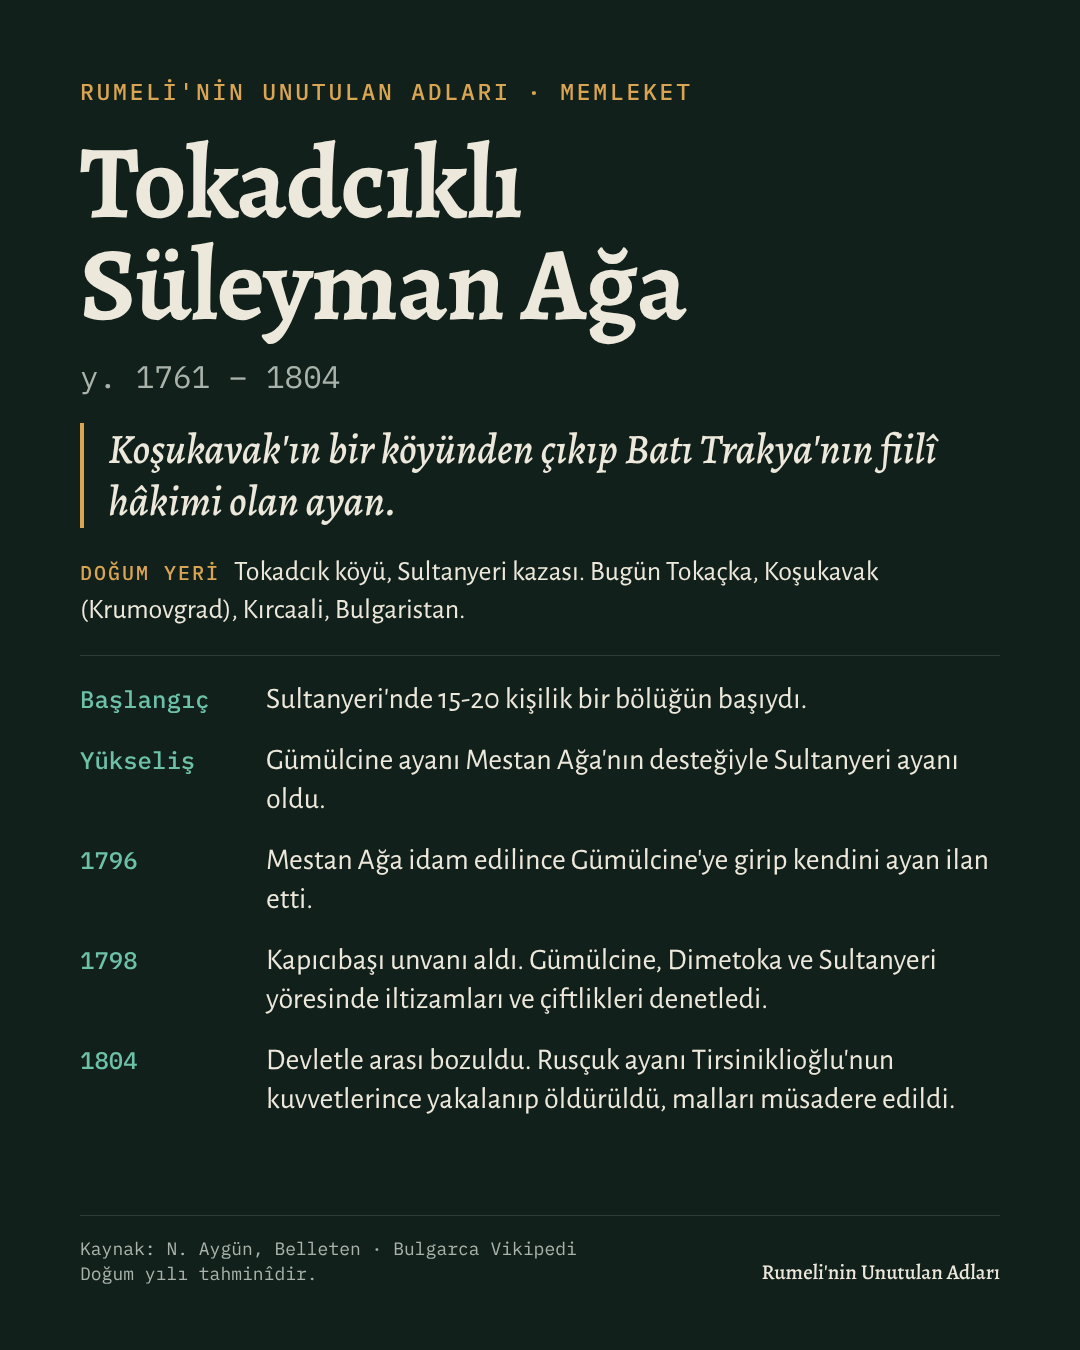
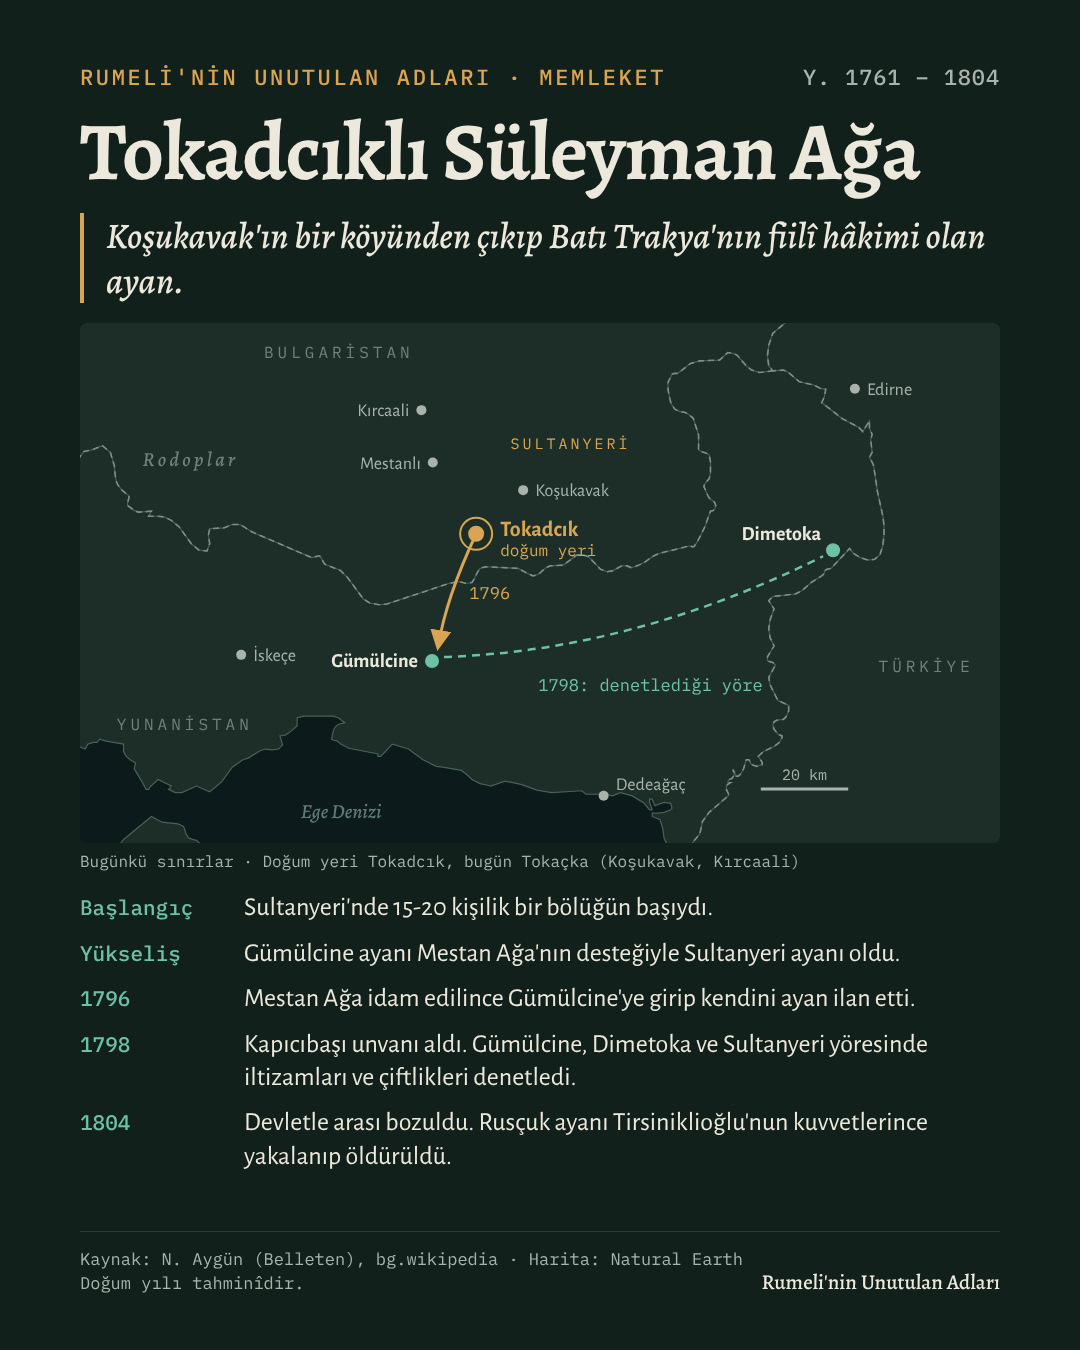
Gönderi görseli: gerçek sınır ve kıyı verisiyle harita (Natural Earth)
Claude-Session: https://claude.ai/code/session_01YHSXRFyQGCd5wQqmvhuNKc

diff --git a/raporlar/2026-11-04_osmanli_balkan_sahsiyetleri/gonderiler/tokadcikli_suleyman_aga_kaynak.html b/raporlar/2026-11-04_osmanli_balkan_sahsiyetleri/gonderiler/tokadcikli_suleyman_aga_kaynak.html
@@ -1,0 +1,86 @@
+<!doctype html>
+<html lang="tr"><head><meta charset="utf-8">
+<link rel="stylesheet" href="https://fonts.googleapis.com/css2?family=Alegreya:ital,wght@0,500;0,700;1,500&family=Alegreya+Sans:ital,wght@0,400;0,500;0,700;1,400&family=IBM+Plex+Mono:wght@400;500&display=swap">
+<script src="https://cdn.jsdelivr.net/npm/d3@7.8.5/dist/d3.min.js"></script>
+<script src="https://cdn.jsdelivr.net/npm/topojson-client@3.1.0/dist/topojson-client.min.js"></script>
+<style>
+:root{--bg:#12201b;--ink:#ede8dc;--muted:#a9b3ab;--ochre:#d9a552;--teal:#6dc1a7;--rule:#2c3d35;
+--d:"Alegreya",Georgia,serif;--b:"Alegreya Sans",system-ui,sans-serif;--m:"IBM Plex Mono",Menlo,monospace}
+*{box-sizing:border-box;margin:0}
+html,body{width:1080px;height:1350px}
+body{background:var(--bg);color:var(--ink);font-family:var(--b);padding:62px 80px 54px;display:flex;flex-direction:column;gap:20px}
+.top{display:flex;justify-content:space-between;font:500 22px var(--m);letter-spacing:.12em;text-transform:uppercase;color:var(--ochre)}
+.top span{color:var(--muted);letter-spacing:.04em}
+h1{font:700 82px/1 var(--d);letter-spacing:-.01em;white-space:nowrap}
+.lede{font:italic 500 36px/1.25 var(--d);border-left:4px solid var(--ochre);padding-left:22px}
+.map{position:relative}
+.map svg{display:block;border-radius:6px}
+.cap{font:400 16px var(--m);color:var(--muted);margin-top:8px;display:flex;justify-content:space-between}
+ol{list-style:none;padding:0;display:flex;flex-direction:column;gap:12px;flex:1}
+li{display:grid;grid-template-columns:150px 1fr;gap:14px;font-size:26px;line-height:1.28}
+li b{font:500 21px/1.6 var(--m);color:var(--teal)}
+footer{display:flex;justify-content:space-between;align-items:flex-end;border-top:1px solid var(--rule);padding-top:16px;font:400 17px/1.4 var(--m);color:var(--muted)}
+footer strong{color:var(--ink);font:500 21px var(--d);white-space:nowrap}
+</style></head><body>
+<div class="top">Rumeli'nin Unutulan Adları · Memleket <span>y. 1761 – 1804</span></div>
+<h1>Tokadcıklı Süleyman Ağa</h1>
+<p class="lede">Koşukavak'ın bir köyünden çıkıp Batı Trakya'nın fiilî hâkimi olan ayan.</p>
+<div class="map"><svg id="m" width="920" height="520"></svg>
+<div class="cap"><span>Bugünkü sınırlar · Doğum yeri Tokadcık, bugün Tokaçka (Koşukavak, Kırcaali)</span><span id="scale"></span></div></div>
+<ol>
+  <li><b>Başlangıç</b><span>Sultanyeri'nde 15-20 kişilik bir bölüğün başıydı.</span></li>
+  <li><b>Yükseliş</b><span>Gümülcine ayanı Mestan Ağa'nın desteğiyle Sultanyeri ayanı oldu.</span></li>
+  <li><b>1796</b><span>Mestan Ağa idam edilince Gümülcine'ye girip kendini ayan ilan etti.</span></li>
+  <li><b>1798</b><span>Kapıcıbaşı unvanı aldı. Gümülcine, Dimetoka ve Sultanyeri yöresinde iltizamları ve çiftlikleri denetledi.</span></li>
+  <li><b>1804</b><span>Devletle arası bozuldu. Rusçuk ayanı Tirsiniklioğlu'nun kuvvetlerince yakalanıp öldürüldü.</span></li>
+</ol>
+<footer><div>Kaynak: N. Aygün (Belleten), bg.wikipedia · Harita: Natural Earth<br>Doğum yılı tahminîdir.</div><strong>Rumeli'nin Unutulan Adları</strong></footer>
+<script>
+(async function(){
+const W=920,H=520, C={sea:'#0d1a1c',land:'#1c2e27',coast:'#4a6157',border:'#7d8f86',ink:'#ede8dc',muted:'#a9b3ab',ochre:'#d9a552',teal:'#6dc1a7'};
+const svg=d3.select('#m');
+const bbox={type:'MultiPoint',coordinates:[[24.45,40.80],[26.95,40.80],[24.45,41.76],[26.95,41.76]]};
+const proj=d3.geoMercator().fitExtent([[0,0],[W,H]],bbox), path=d3.geoPath(proj);
+const topo=await d3.json('https://cdn.jsdelivr.net/npm/world-atlas@2.0.2/countries-10m.json');
+const all=topojson.feature(topo,topo.objects.countries);const land={type:'FeatureCollection',features:all.features.filter(f=>['100','300','792','807'].includes(String(f.id)))};
+const borders=topojson.mesh(topo,topo.objects.countries,(a,b)=>a!==b);
+svg.append('defs').html(`<clipPath id="c"><rect width="${W}" height="${H}" rx="6"/></clipPath>
+<marker id="ar" viewBox="0 0 10 10" refX="8" refY="5" markerWidth="7" markerHeight="7" orient="auto"><path d="M0,0L10,5L0,10z" fill="${C.ochre}"/></marker>`);
+const g=svg.append('g').attr('clip-path','url(#c)');
+g.append('rect').attr('width',W).attr('height',H).attr('fill',C.sea);
+g.append('path').datum(land).attr('d',path).attr('fill',C.land).attr('stroke',C.coast).attr('stroke-width',1.2);
+g.append('path').datum(borders).attr('d',path).attr('fill','none').attr('stroke',C.border).attr('stroke-width',1.6).attr('stroke-dasharray','6 4');
+const P=(lon,lat)=>proj([lon,lat]);
+const T=(lon,lat,txt,o={})=>{const [x,y]=P(lon,lat);g.append('text').attr('x',x+(o.dx||0)).attr('y',y+(o.dy||0)).attr('text-anchor',o.a||'start')
+  .attr('fill',o.c||C.muted).attr('font-family',o.f||'Alegreya Sans').attr('font-size',o.s||18).attr('font-weight',o.w||400).attr('font-style',o.i?'italic':'normal')
+  .attr('letter-spacing',o.ls||0).text(txt);};
+// bölge yazıları
+T(24.95,41.74,'BULGARİSTAN',{s:16,ls:4,c:'#6f8279',f:'IBM Plex Mono'});
+T(24.55,40.98,'YUNANİSTAN',{s:16,ls:4,c:'#6f8279',f:'IBM Plex Mono'});
+T(26.62,41.10,'TÜRKİYE',{s:16,ls:4,c:'#6f8279',f:'IBM Plex Mono'});
+T(25.05,40.80,'Ege Denizi',{s:20,i:1,c:'#5f7a78',f:'Alegreya'});
+T(24.62,41.52,'R o d o p l a r',{s:20,i:1,c:'#6f8279',f:'Alegreya'});
+T(25.62,41.555,'SULTANYERİ',{s:15,ls:3,c:C.ochre,f:'IBM Plex Mono'});
+// yol: Tokadcık -> Gümülcine, Gümülcine -> Dimetoka
+const tk=P(25.5265,41.3822), gm=P(25.4066,41.1224), dm=P(26.4964,41.3486);
+g.append('path').attr('d',`M${tk[0]},${tk[1]} Q${tk[0]-30},${(tk[1]+gm[1])/2} ${gm[0]+6},${gm[1]-14}`).attr('fill','none').attr('stroke',C.ochre).attr('stroke-width',3).attr('marker-end','url(#ar)');
+g.append('path').attr('d',`M${gm[0]+12},${gm[1]-4} Q${(gm[0]+dm[0])/2},${gm[1]-10} ${dm[0]-10},${dm[1]+6}`).attr('fill','none').attr('stroke',C.teal).attr('stroke-width',2.5).attr('stroke-dasharray','8 6');
+// şehirler
+const cities=[['Kırcaali',25.3777,41.6338,{a:'end',dx:-12,dy:6}],['Mestanlı',25.4086,41.5272,{a:'end',dx:-12,dy:6}],['Koşukavak',25.6542,41.4711,{dx:12,dy:6}],
+ ['İskeçe',24.888,41.1349,{dx:12,dy:6}],['Dimetoka',26.4964,41.3486,{a:'end',dx:-12,dy:-10,c:C.ink,w:700,s:20}],['Edirne',26.5557,41.6771,{dx:12,dy:6}],
+ ['Dedeağaç',25.873,40.8457,{dx:12,dy:-6}],['Gümülcine',25.4066,41.1224,{a:'end',dx:-14,dy:6,c:C.ink,w:700,s:20}]];
+for(const [n,lon,lat,o] of cities){const [x,y]=P(lon,lat);g.append('circle').attr('cx',x).attr('cy',y).attr('r',o.w?7:5).attr('fill',o.w?C.teal:C.muted);T(lon,lat,n,o);}
+g.append('circle').attr('cx',tk[0]).attr('cy',tk[1]).attr('r',16).attr('fill','none').attr('stroke',C.ochre).attr('stroke-width',2);
+g.append('circle').attr('cx',tk[0]).attr('cy',tk[1]).attr('r',8).attr('fill',C.ochre);
+T(25.5265,41.3822,'Tokadcık',{dx:24,dy:2,c:C.ochre,w:700,s:22});
+T(25.5265,41.3822,'doğum yeri',{dx:24,dy:22,c:C.ochre,s:16,f:'IBM Plex Mono'});
+T(25.47,41.25,'1796',{dx:14,c:C.ochre,s:17,f:'IBM Plex Mono'});
+T(26.0,41.06,'1798: denetlediği yöre',{a:'middle',c:C.teal,s:17,f:'IBM Plex Mono'});
+// ölçek
+const a=P(26.3,40.86), km=20, b=P(26.3+km/(111.32*Math.cos(40.86*Math.PI/180)),40.86);
+g.append('line').attr('x1',a[0]).attr('y1',a[1]).attr('x2',b[0]).attr('y2',b[1]).attr('stroke',C.muted).attr('stroke-width',3);
+g.append('text').attr('x',(a[0]+b[0])/2).attr('y',a[1]-9).attr('text-anchor','middle').attr('fill',C.muted).attr('font-family','IBM Plex Mono').attr('font-size',15).text('20 km');
+document.body.dataset.ok='1';
+})();
+</script>
+</body></html>
